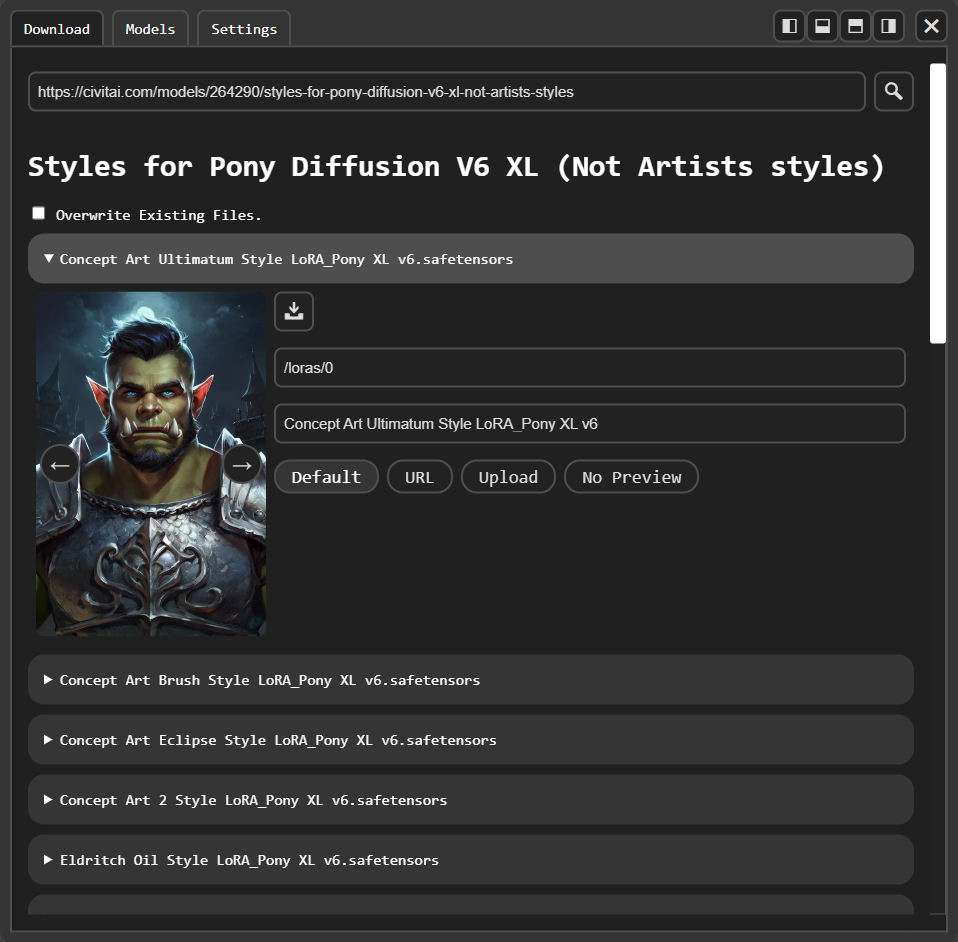
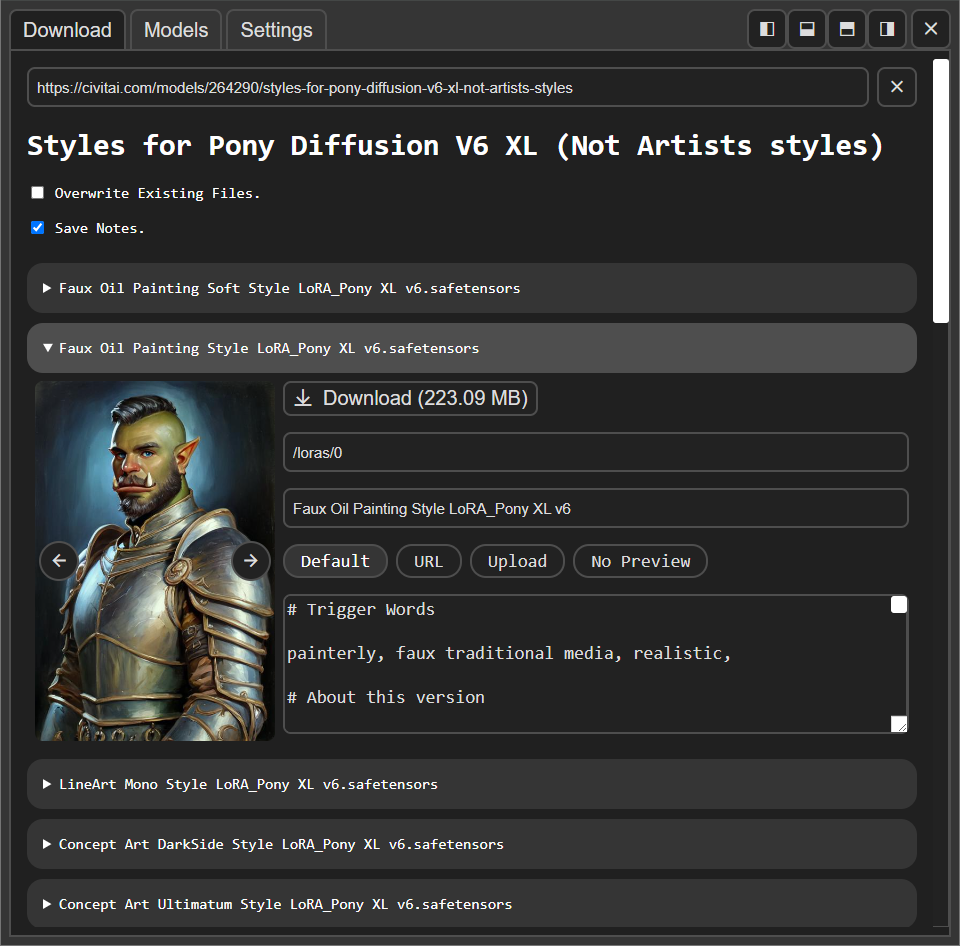
Updated screenshots. - Fixed bug where sidebar settings values were inverted two out of four of the buttons. - Fixed sidebar bug where making the window smaller caused sidebar to exceed page size. - Remove debugs. - Decreased rows of download notes. - Increased step side for sidebar size settings. -

diff --git a/web/model-manager.js b/web/model-manager.js
@@ -3,6 +3,10 @@ import { api } from "../../scripts/api.js";
 import { ComfyDialog, $el } from "../../scripts/ui.js";
 import { ComfyButton } from "../../scripts/ui/components/button.js";
 
+function clamp(x, min, max) {
+    return Math.min(Math.max(x, min), max);
+}
+
 /**
  * @param {string} url
  * @param {any} [options=undefined]
@@ -3094,7 +3098,6 @@ async function getModelInfos(urlText) {
             const name = civitaiInfo["name"];
             const infos = [];
             const type = civitaiInfo["type"];
-            //console.log(civitaiInfo);
             civitaiInfo["versions"].forEach((version) => {
                 const images = version["images"];
                 const tags = version["tags"];
@@ -3130,7 +3133,6 @@ async function getModelInfos(urlText) {
                     .replaceAll("&lt;", "<").replaceAll("&gt;", ">")
                     .replaceAll("&lte;", "<=").replaceAll("&gte;", ">=")
                     .replaceAll("&amp;", "&");
-                //console.log(description);
                 version["files"].forEach((file) => {
                     infos.push({
                         "images": images,
@@ -3506,7 +3508,7 @@ class DownloadView {
                         $el("textarea.comfy-multiline-input", {
                             name: "model info notes",
                             value: info["description"]??"",
-                            rows: 10,
+                            rows: 6,
                             disabled: true,
                             style: { display: info["description"] === undefined || info["description"] === "" ? "none" : "" },
                         })
@@ -4080,7 +4082,7 @@ class SettingsView {
                     value: 0.5,
                     min: 0.0,
                     max: 1.0,
-                    step: 0.01,
+                    step: 0.05,
                 }),
             ]),
             $el("label", [
@@ -4092,7 +4094,7 @@ class SettingsView {
                     value: 0.5,
                     min: 0.0,
                     max: 1.0,
-                    step: 0.01,
+                    step: 0.05,
                 }),
             ]),
             $checkbox({
@@ -4535,7 +4537,6 @@ class ModelManager extends ComfyDialog {
                 return;
             }
             
-            /** @type {HTMLDivElement} */
             const left = modelManager.offsetLeft;
             const top = modelManager.offsetTop;
             const width = modelManager.offsetWidth;
@@ -4582,19 +4583,19 @@ class ModelManager extends ComfyDialog {
             const pageHeight = document.documentElement.scrollHeight;
             
             if (sidebarState === "left") {
-                const pixels = this.#clampSidebarWidth(x).toString() + "px";
+                const pixels = clamp(x, 0, pageWidth).toString() + "px";
                 modelManager.style.setProperty("--model-manager-sidebar-width-left", pixels);
             }
             else if (sidebarState === "right") {
-                const pixels = this.#clampSidebarWidth(pageWidth - x).toString() + "px";
+                const pixels = clamp(pageWidth - x, 0, pageWidth).toString() + "px";
                 modelManager.style.setProperty("--model-manager-sidebar-width-right", pixels);
             }
             else if (sidebarState === "top") {
-                const pixels = this.#clampSidebarHeight(y).toString() + "px";
+                const pixels = clamp(y, 0, pageHeight).toString() + "px";
                 modelManager.style.setProperty("--model-manager-sidebar-height-top", pixels);
             }
             else if (sidebarState === "bottom") {
-                const pixels = this.#clampSidebarHeight(pageHeight - y).toString() + "px";
+                const pixels = clamp(pageHeight - y, 0, pageHeight).toString() + "px";
                 modelManager.style.setProperty("--model-manager-sidebar-height-bottom", pixels);
             }
         };
@@ -4626,22 +4627,16 @@ class ModelManager extends ComfyDialog {
             const x = Math.floor(pageWidth * settings["sidebar-default-width"].value);
             const y = Math.floor(pageHeight * settings["sidebar-default-height"].value);
             
-            console.log(settings["sidebar-default-width"].value);
-            console.log(settings["sidebar-default-height"].value);
-            
-            console.log(x);
-            console.log(y);
-            
-            const leftPixels = this.#clampSidebarWidth(x).toString() + "px";
+            const leftPixels = x.toString() + "px";
             this.element.style.setProperty("--model-manager-sidebar-width-left", leftPixels);
             
-            const rightPixels = this.#clampSidebarWidth(pageWidth - x).toString() + "px";
+            const rightPixels = x.toString() + "px";
             this.element.style.setProperty("--model-manager-sidebar-width-right", rightPixels);
             
-            const topPixels = this.#clampSidebarHeight(y).toString() + "px";
+            const topPixels = y.toString() + "px";
             this.element.style.setProperty("--model-manager-sidebar-height-top", topPixels);
             
-            const bottomPixels = this.#clampSidebarHeight(pageHeight - y).toString() + "px";
+            const bottomPixels = y.toString() + "px";
             this.element.style.setProperty("--model-manager-sidebar-height-bottom", bottomPixels);
         }
     }
@@ -4719,28 +4714,6 @@ class ModelManager extends ComfyDialog {
             this.#sidebarButtonGroup.style.display = "";
             this.#sidebarSelect.style.display = "none";
         }
-    }
-    
-    /**
-     * @param {Number} x
-     * @returns {Number}
-     */
-    #clampSidebarWidth(x) {
-        const pageWidth = document.documentElement.scrollWidth;
-        const min = Math.floor(pageWidth * 0.15); // TODO: magic numbers
-        const max = Math.floor(pageWidth * 0.95); // TODO: magic numbers
-        return Math.min(Math.max(x, min), max);
-    }
-    
-    /**
-     * @param {Number} y
-     * @returns {Number}
-     */
-    #clampSidebarHeight(y) {
-        const pageHeight = document.documentElement.scrollHeight;
-        const min = Math.floor(pageHeight * 0.15); // TODO: magic numbers
-        const max = Math.floor(pageHeight * 0.95); // TODO: magic numbers
-        return Math.min(Math.max(y, min), max);
     }
 }
 

diff --git a/web/model-manager.css b/web/model-manager.css
@@ -99,21 +99,29 @@
 
 .model-manager[data-sidebar-state="left"] {
     width: var(--model-manager-sidebar-width-left);
+    max-width: 95vw;
+    min-width: 22vw;
     right: auto;
 }
 
 .model-manager[data-sidebar-state="top"] {
     height: var(--model-manager-sidebar-height-top);
+    max-height: 95vh;
+    min-height: 22vh;
     bottom: auto;
 }
 
 .model-manager[data-sidebar-state="bottom"] {
     height: var(--model-manager-sidebar-height-bottom);
+    max-height: 95vh;
+    min-height: 22vh;
     top: auto;
 }
 
 .model-manager[data-sidebar-state="right"] {
     width: var(--model-manager-sidebar-width-right);
+    max-width: 95vw;
+    min-width: 22vw;
     left: auto;
 }
 

diff --git a/README.md b/README.md
@@ -40,6 +40,8 @@ Download, browse and delete models in ComfyUI.
 
 ### ComfyUI Node Graph
 
+<img src="demo-tab-model-preview-thumbnail-buttons-example.png" alt="Model Manager Demo Screenshot" width="65%"/>
+
 - Button to copy a model to the ComfyUI clipboard or embedding to system clipboard. (Embedding copying requires secure http connection.)
 - Button to add model to ComfyUI graph or embedding to selected nodes. (For small screens/low resolution.)
 - Button to load workflows embedded in previews. (Can alternatively drag full-sized image in model info onto node graph.)
@@ -50,6 +52,8 @@ Download, browse and delete models in ComfyUI.
 - Drag preview image in model info onto the graph to load embedded workflow.
 
 ### Settings Tab
+
+<img src="demo-tab-settings.png" alt="Model Manager Demo Screenshot" width="65%"/>
 
 - Settings tab saved in `ui_settings.yaml`.
   - Hide/Show 'add' and 'copy-to-clipboard' buttons.
